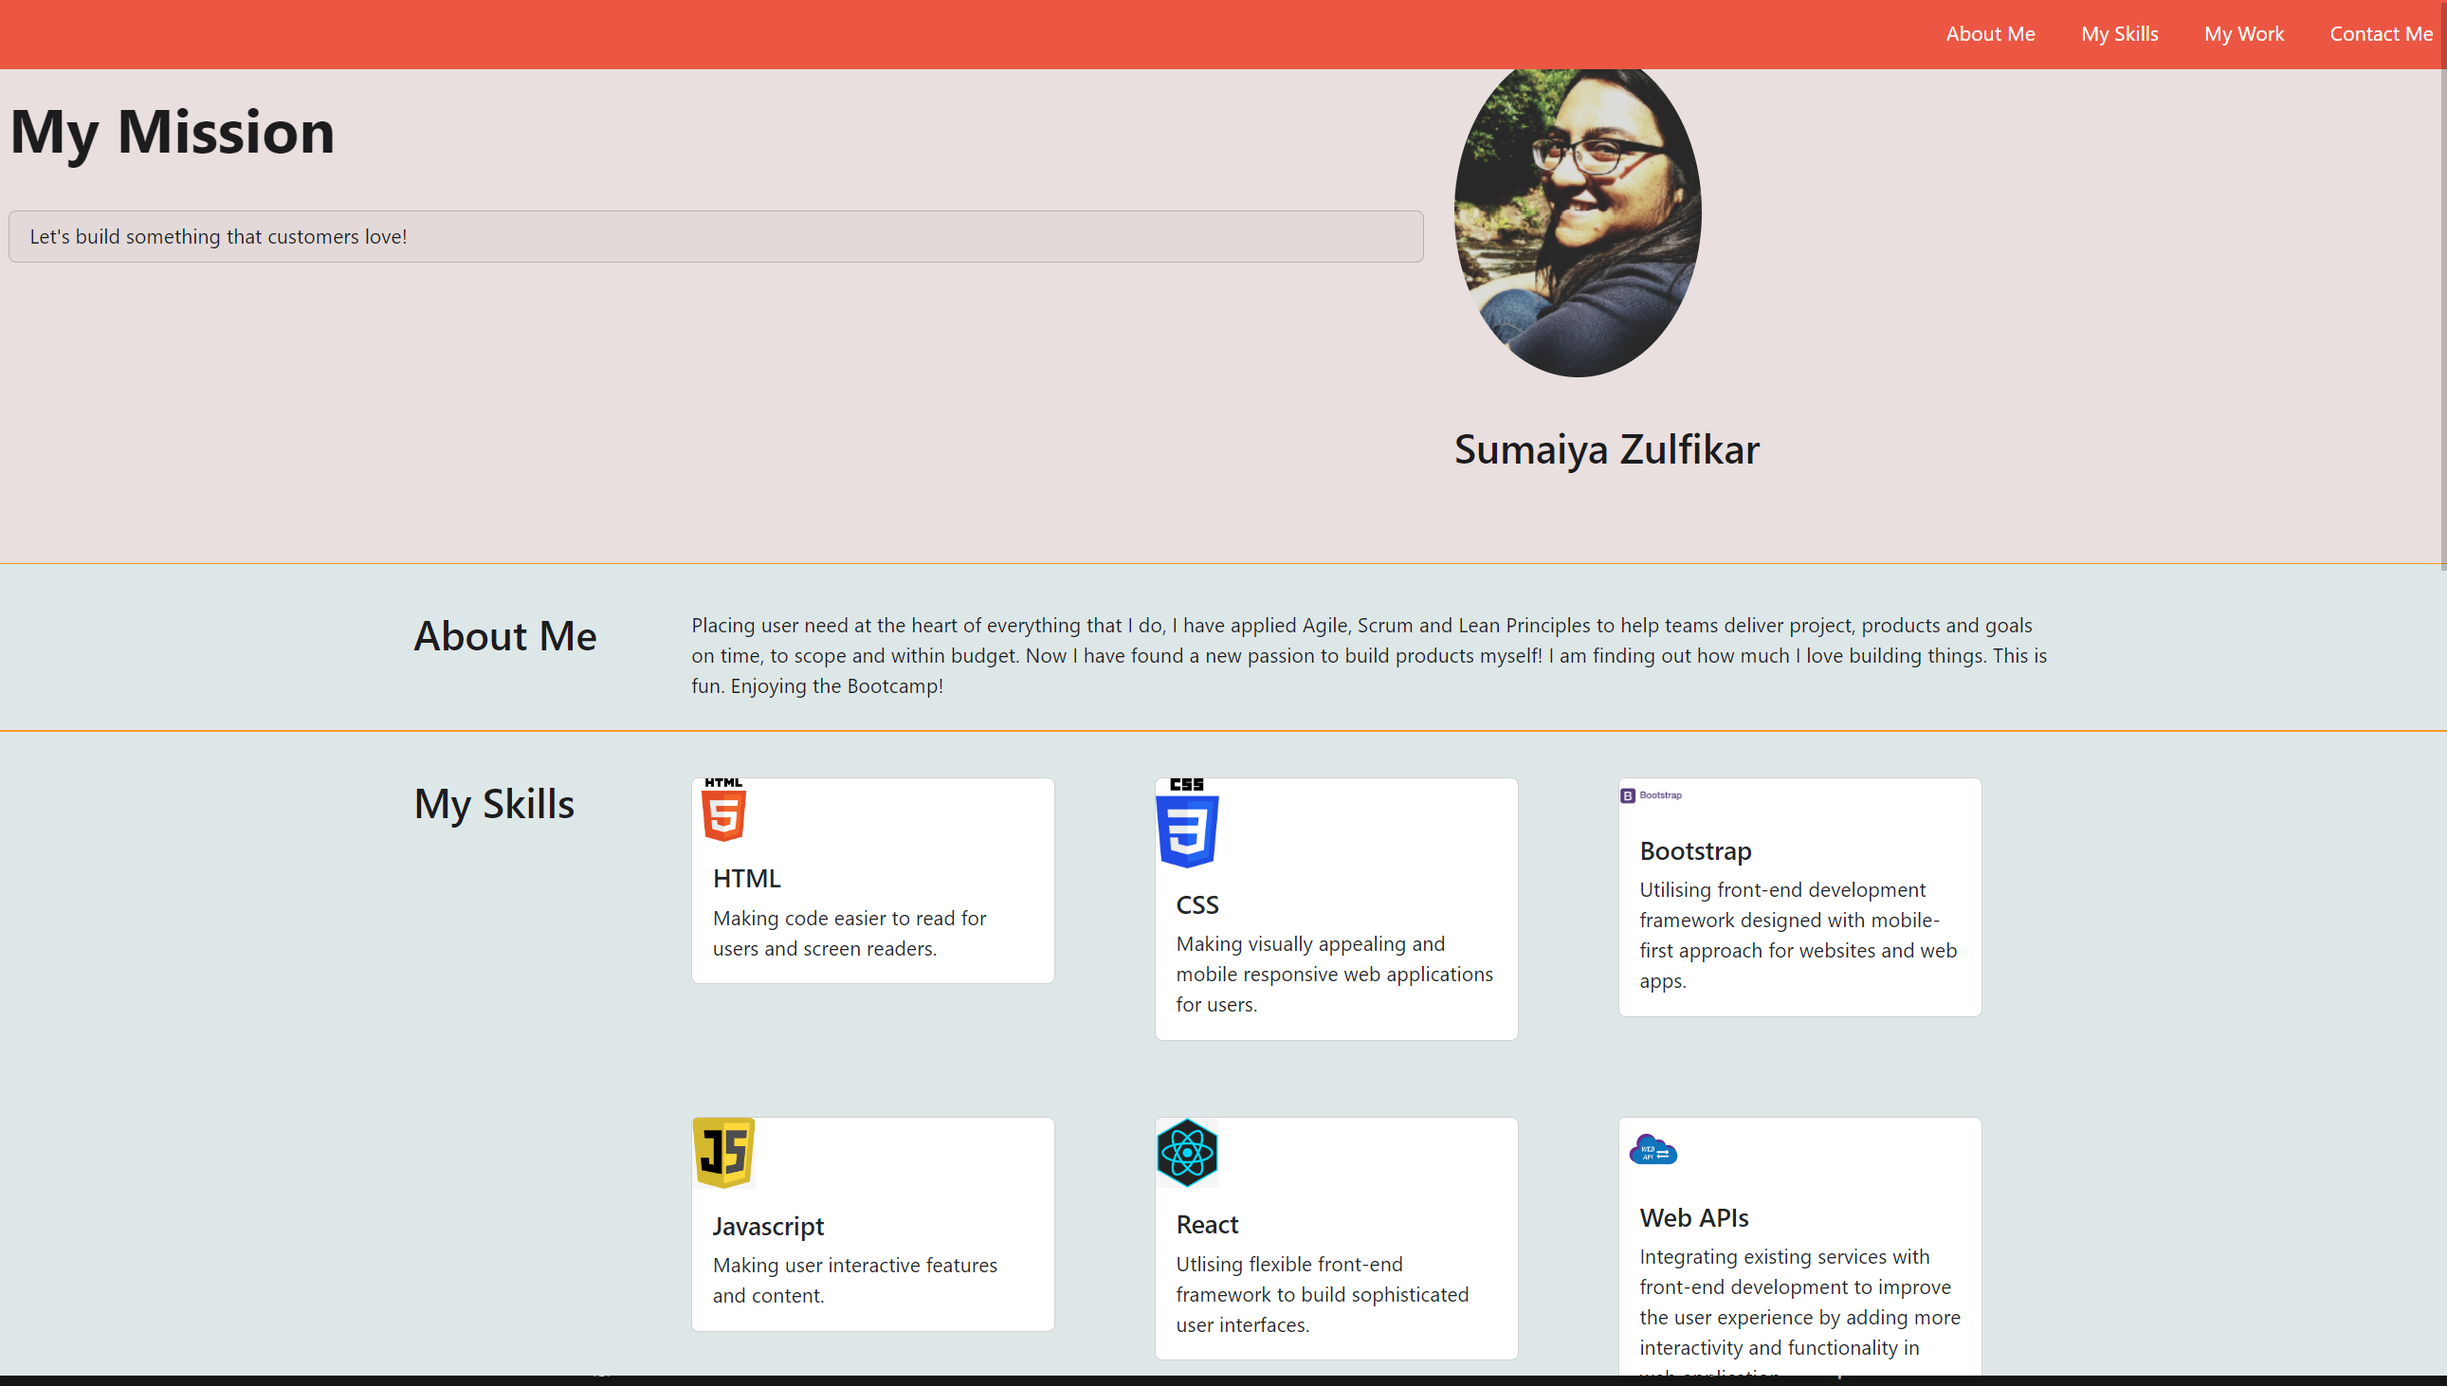
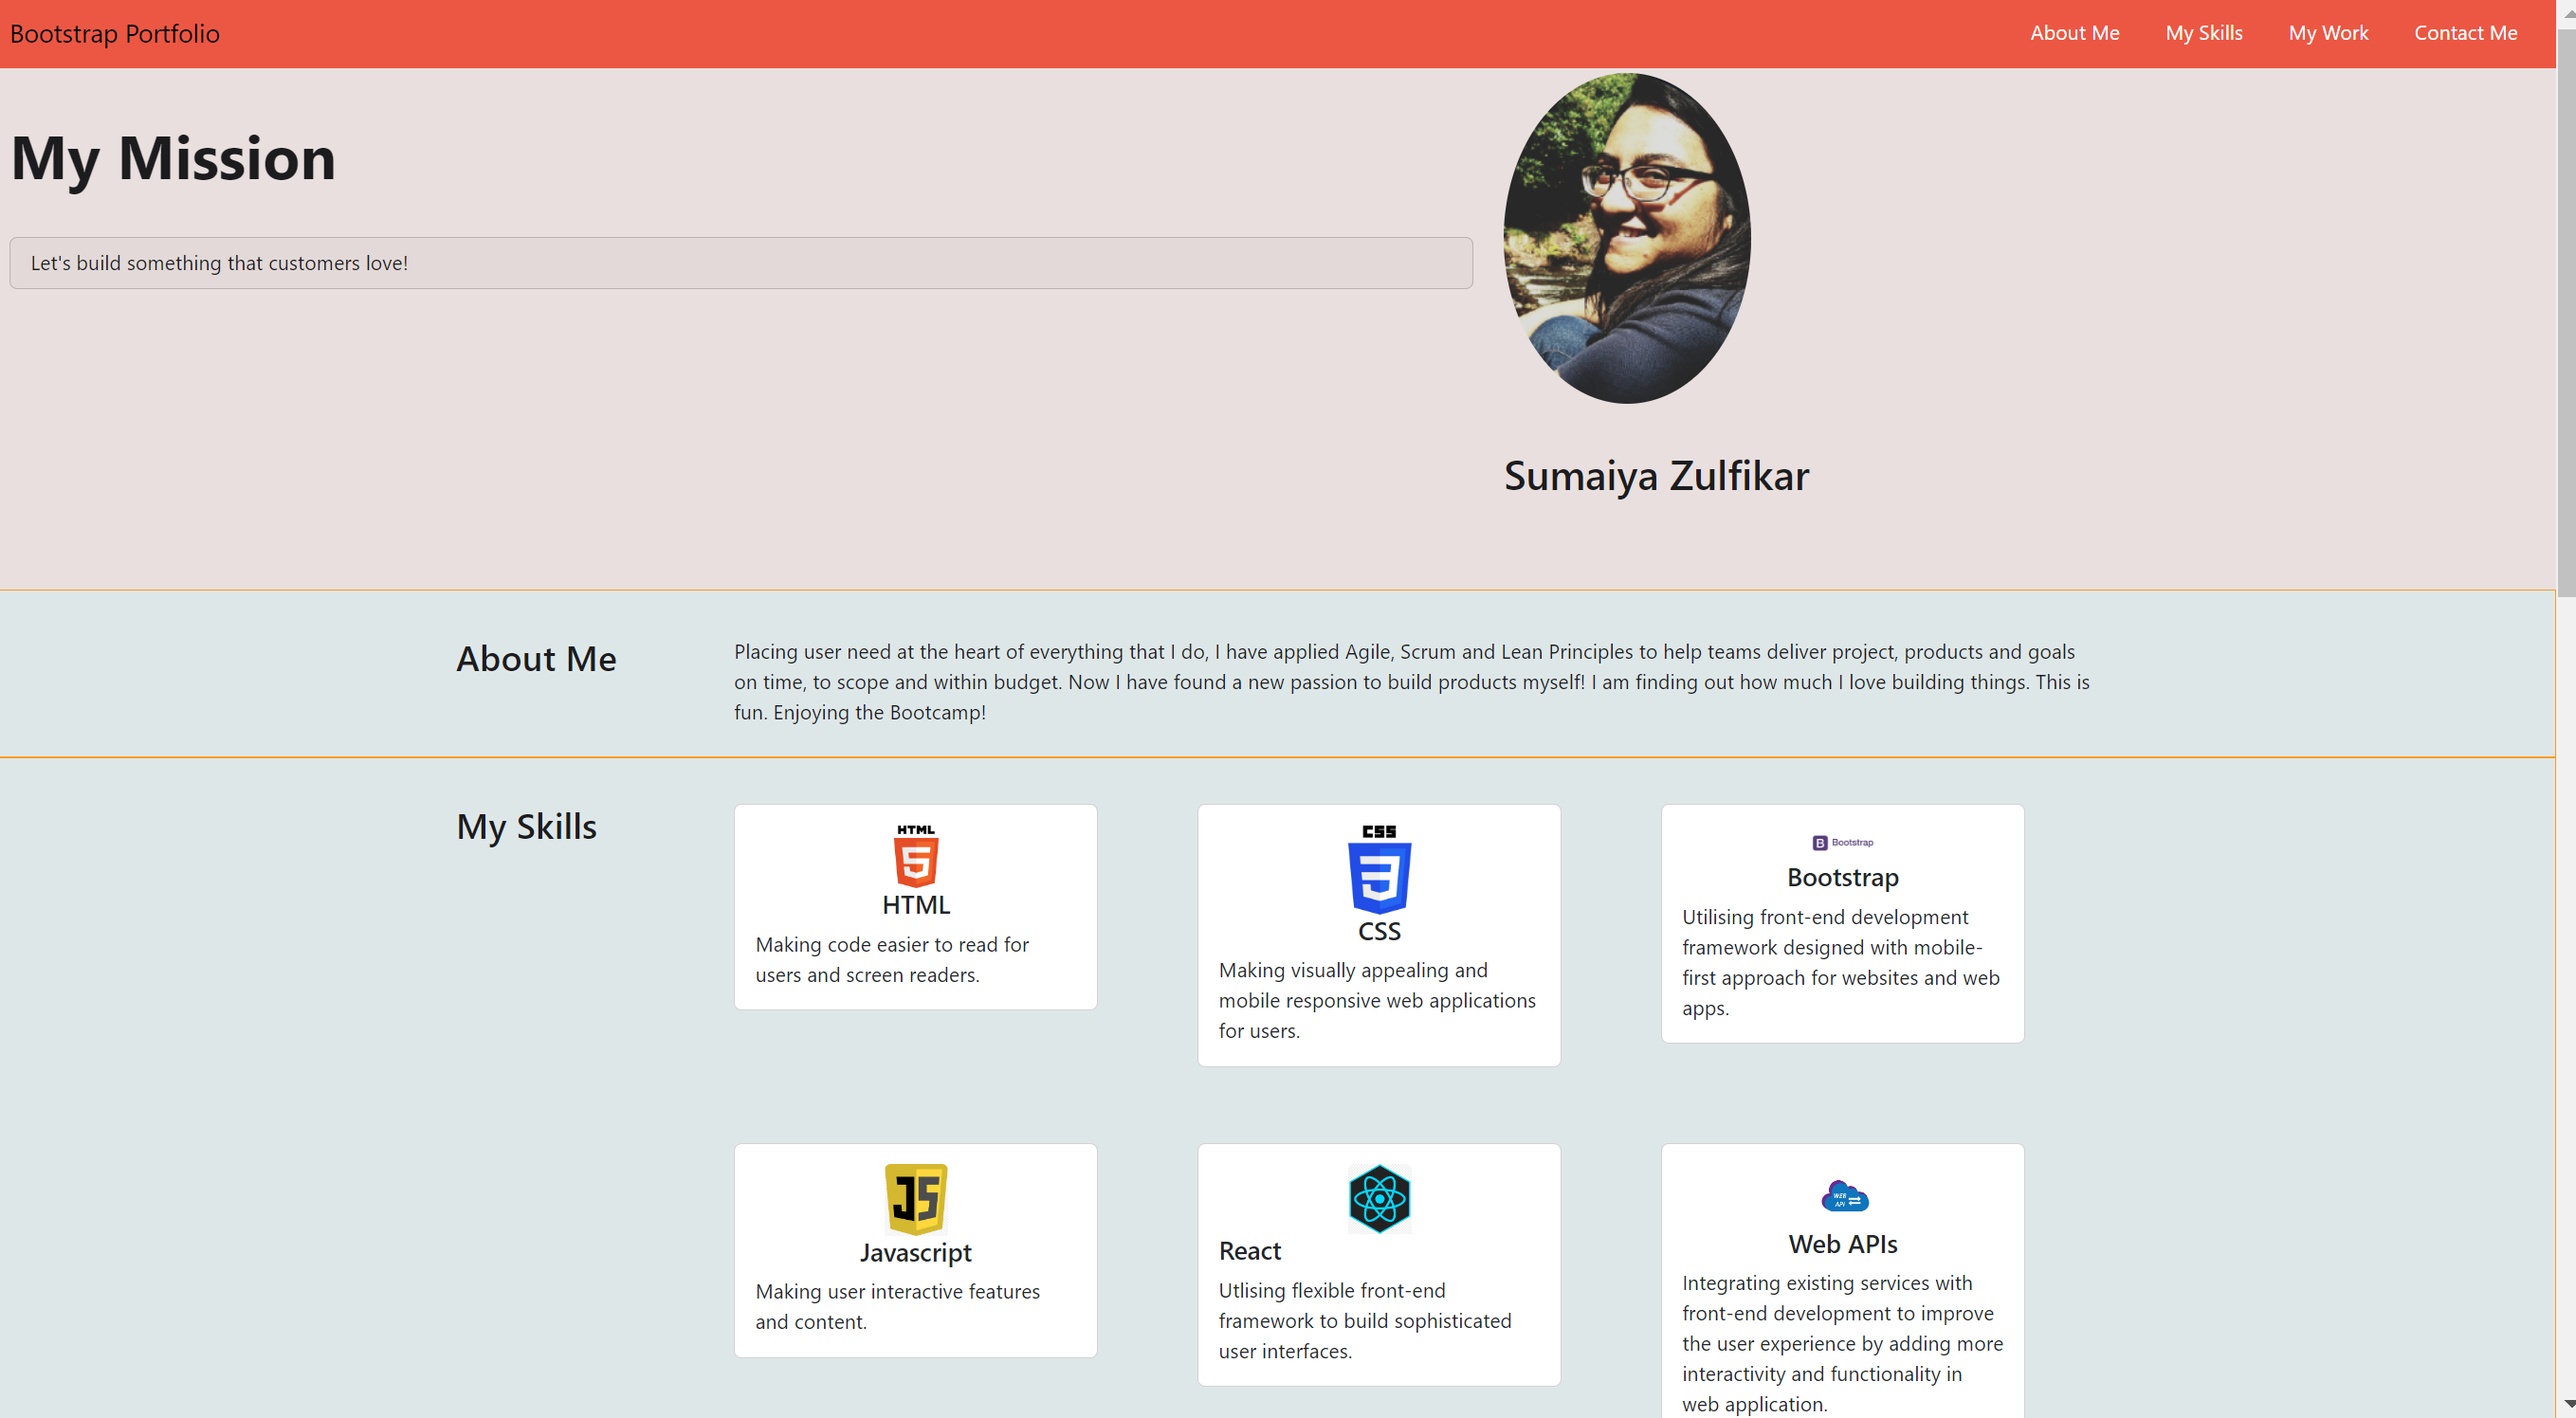
image align

diff --git a/index.html b/index.html
@@ -96,28 +96,28 @@
                 <div class="row">
                   <div class="col-lg-4 col-sm-12">
                     <div class="card" style="width: 18rem;">
-                        <img src="./images/html.png" class="card-img-top skill-badge" alt="html5 logo">
-                        <div class="card-body">
-                          <h5 class="card-title">HTML</h5>
-                          <p class="card-text">Making code easier to read for users and screen readers.</p>
-                        </div>
+                      <div class="card-body text-center">
+                          <img src="./images/html.png" class="card-img-top skill-badge" alt="html5 logo">
+                          <h5 class="card-title text-center">HTML</h5>
+                          <p class="card-text text-start">Making code easier to read for users and screen readers.</p>
+                      </div>
+                    </div>
+                  </div>
+                  <div class="col-lg-4 col-sm-12">
+                    <div class="card" style="width: 18rem;">
+                      <div class="card-body text-center">  
+                          <img src="./images/CSS3_logo_and_wordmark.png" class="card-img-top skill-badge" alt="CSS logo">
+                          <h5 class="card-title text-center">CSS</h5>
+                          <p class="card-text text-start">Making visually appealing and mobile responsive web applications for users.</p>
+                      </div>
                       </div>
                   </div>
                   <div class="col-lg-4 col-sm-12">
                     <div class="card" style="width: 18rem;">
-                        <img src="./images/CSS3_logo_and_wordmark.png" class="card-img-top skill-badge" alt="CSS logo">
-                        <div class="card-body">
-                          <h5 class="card-title">CSS</h5>
-                          <p class="card-text">Making visually appealing and mobile responsive web applications for users.</p>
-                        </div>
-                      </div>
-                  </div>
-                  <div class="col-lg-4 col-sm-12">
-                    <div class="card" style="width: 18rem;">
-                        <img src="./images/bootstrap.png" class="card-img-top skill-badge" alt="Bootstrap logo">
-                        <div class="card-body">
-                          <h5 class="card-title">Bootstrap</h5>
-                          <p class="card-text">Utilising front-end development framework designed with mobile-first approach for websites and web apps.</p>
+                        <div class="card-body text-center">
+                          <img src="./images/bootstrap.png" class="card-img-top skill-badge" alt="Bootstrap logo">
+                          <h5 class="card-title text-center">Bootstrap</h5>
+                          <p class="card-text text-start">Utilising front-end development framework designed with mobile-first approach for websites and web apps.</p>
                         </div>
                       </div>
                   </div>
@@ -125,28 +125,28 @@
                 <div class="row">
                     <div class="col-lg-4 col-sm-12">
                         <div class="card" style="width: 18rem;">
-                            <img src="./images/jslogo.jpg" class="card-img-top skill-badge" alt="Javascript logo">
-                            <div class="card-body">
-                              <h5 class="card-title">Javascript</h5>
-                              <p class="card-text">Making user interactive features and content.</p>
+                            <div class="card-body text-center">
+                              <img src="./images/jslogo.jpg" class="card-img-top skill-badge" alt="Javascript logo">
+                              <h5 class="card-title text-center">Javascript</h5>
+                              <p class="card-text text-start">Making user interactive features and content.</p>
                             </div>
                           </div>
                     </div>
                     <div class="col-lg-4 col-sm-12">
                         <div class="card" style="width: 18rem;">
-                            <img src="./images/reactlogo.jpg" class="card-img-top skill-badge" alt="React logo">
-                            <div class="card-body">
-                              <h5 class="card-title">React</h5>
-                              <p class="card-text">Utlising flexible front-end framework to build sophisticated user interfaces.</p>
+                            <div class="card-body text-center">
+                              <img src="./images/reactlogo.jpg" class="card-img-top skill-badge" alt="React logo">
+                              <h5 class="card-title text-start">React</h5>
+                              <p class="card-text text-start">Utlising flexible front-end framework to build sophisticated user interfaces.</p>
                             </div>
                           </div>
                     </div>
                     <div class="col-lg-4 col-sm-12">
                         <div class="card" style="width: 18rem;">
-                            <img src="./images/webapi.png" class="card-img-top skill-badge" alt="Web API information exchage">
-                            <div class="card-body">
-                              <h5 class="card-title">Web APIs</h5>
-                              <p class="card-text">Integrating existing services with front-end development to improve the user experience by adding more interactivity and functionality in web application.</p>
+                            <div class="card-body text-center">
+                              <img src="./images/webapi.png" class="card-img-top skill-badge" alt="Web API information exchage">
+                              <h5 class="card-title text-center">Web APIs</h5>
+                              <p class="card-text text-start">Integrating existing services with front-end development to improve the user experience by adding more interactivity and functionality in web application.</p>
                             </div>
                           </div>
                     </div>
@@ -154,10 +154,10 @@
                   <div class="row">
                     <div class="col-lg-3 col-sm-12">
                         <div class="card" style="width: 18rem;">
-                            <img src="./images/agile.PNG" class="card-img-top skill-badge" alt="Agile software development">
-                            <div class="card-body">
-                              <h5 class="card-title">Agile</h5>
-                              <p class="card-text">Utilising the Agile Princicples Values and ways of working to create quality products collaboratively and satisfying customer needs.  </p>
+                            <div class="card-body text-center">
+                              <img src="./images/agile.PNG" class="card-img-top skill-badge" alt="Agile software development">
+                              <h5 class="card-title text-center">Agile</h5>
+                              <p class="card-text text-start">Utilising the Agile Princicples Values and ways of working to create quality products collaboratively and satisfying customer needs.  </p>
                             </div>
                           </div>
                     </div>
@@ -169,7 +169,7 @@
 
     <!--A section of my work to date  -->
     <section id="my-works">
-        <div class="container text-left">
+        <div class="container">
             <div class="row">
                 <div class="col-sm-12">
                     <h3>My Projects</h3>
@@ -177,9 +177,9 @@
             </div>
             <div class="row">
                <div class="col-sm">
-                    <div class="card" style="width: 18rem;">
+                    <div class="card"  style="width: 18rem;">
                         <a href="https://sumzulfikar.github.io/Horiseon-Accessibility-Optimization/">
-                            <img src="./images/seo.PNG" class="card-img-top" alt="Marketing project website">
+                            <img src="./images/seo.PNG" class="img-fluid" alt="Marketing project website">
                         </a>
                     <div class="card-body">
                         <h5 class="card-title">Project Objective</h5>
@@ -193,9 +193,8 @@
                 <div class="col-sm">
                     <div class="card" style="width: 18rem;">
                         <a href="https://sumzulfikar.github.io/Travel_California//">
-                        <img src="https://placehold.co/600x400/000000/FFFFFF/png" class="card-img-top" alt="Travel project website">
+                            <img src="https://placehold.co/600x400/000000/FFFFFF/png" class="card-img-top" alt="Travel project website">
                         </a>
-                    
                     <div class="card-body">
                         <h5 class="card-title">Project Objective</h5>
                         <p class="card-text">Travel Agency website to visit California.</p>
@@ -210,7 +209,6 @@
                         <a href="https://sumzulfikar.github.io/prework-study-guide/">
                             <img src="./images/studyguide.PNG" class="card-img-top" alt="Student studyguide project website">
                         </a>
-                    
                     <div class="card-body">
                         <h5 class="card-title">Project Objective</h5>
                         <p class="card-text">The Prework Study Guide project is a web application that enables boot camp students to view the prework notes in a structured webpage so that can easily find and read the information.</p>
